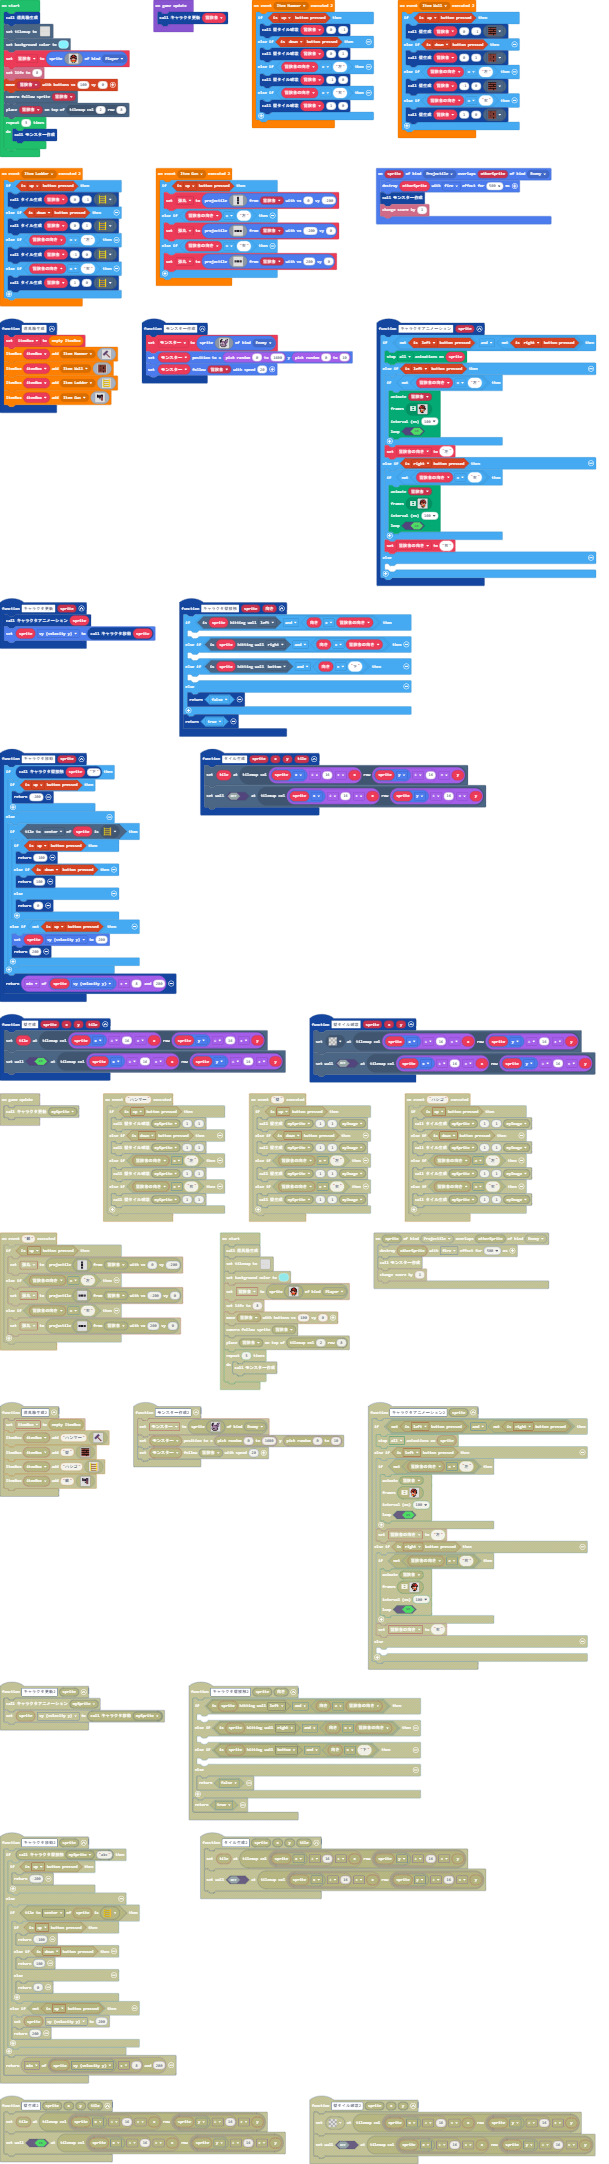
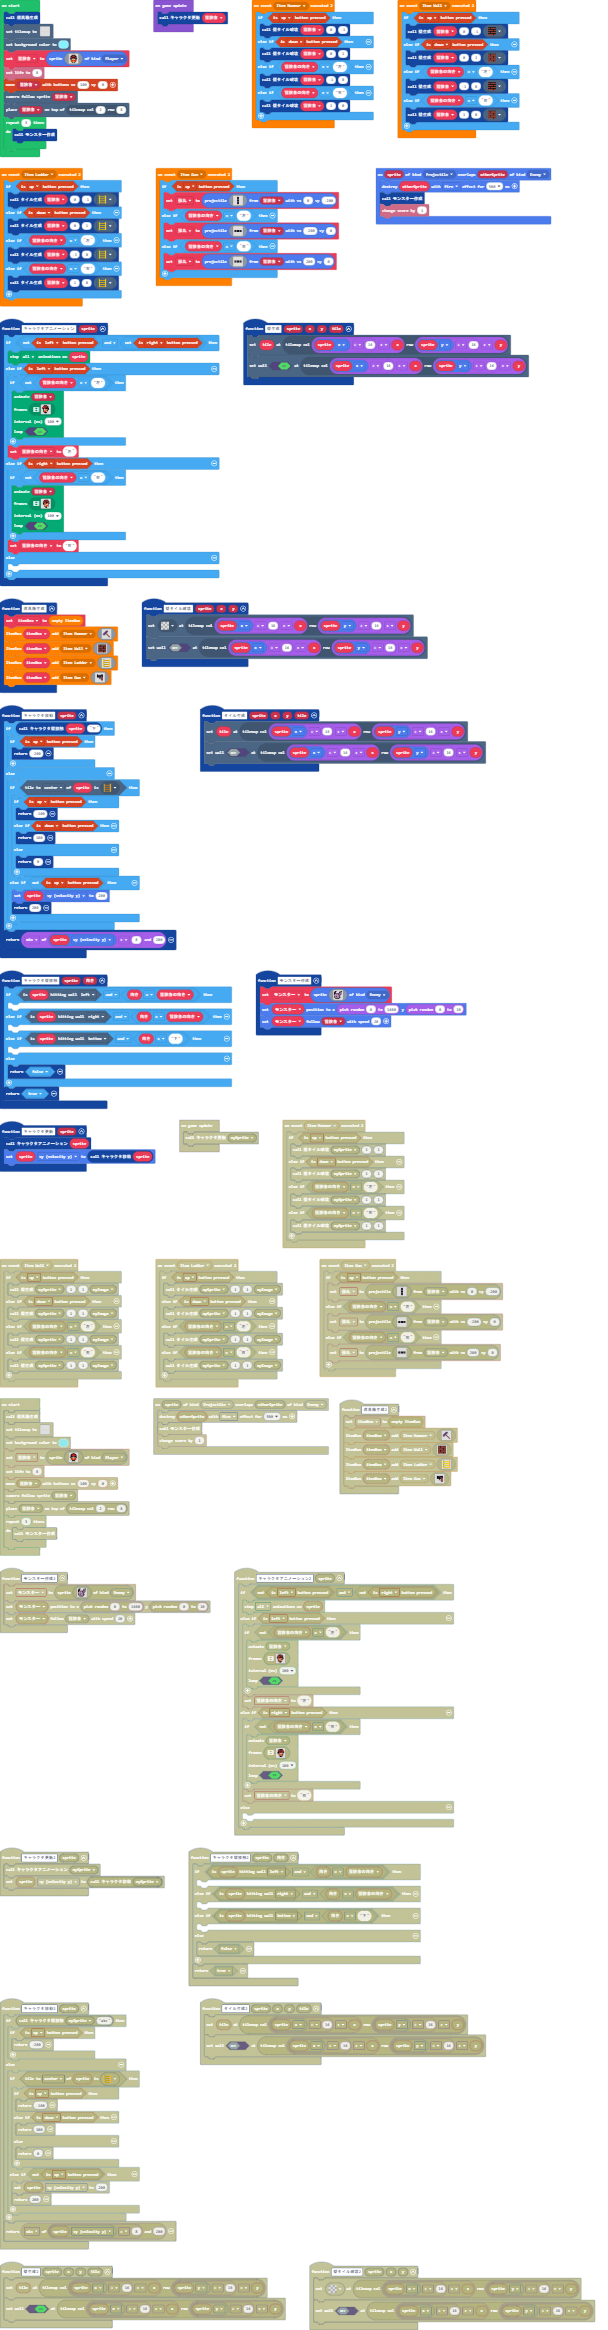
Update main.blocks, main.ts, tilemap.g.jres, tilemap.g.ts, itembox.ts

diff --git a/itembox.ts b/itembox.ts
@@ -31,13 +31,12 @@ function createItemFrame2(): Sprite {
  */
 //% blockNamespace=Items color="#FF8000"
 class Item {
-    _name: string;
+    _kind: number;
     _sprite: Sprite;
     _frame: Sprite;
-    _set_x: number;
 
-    constructor(name: string, sprite: Sprite) {
-        this._name = name;
+    constructor(kind: number, sprite: Sprite) {
+        this._kind = kind;
         this._sprite = sprite;
         this._sprite.setFlag(SpriteFlag.RelativeToCamera, true);
         this._frame = createItemFrame2();
@@ -45,7 +44,6 @@ class Item {
     }
 
     setPosition(x: number, y: number) {
-        this._set_x = x;
         this._sprite.setPosition(x, y);
         this._frame.setPosition(x-1, y);
     }
@@ -55,8 +53,6 @@ class Item {
     }
 
     debugPrint() {
-        console.log("name:" + this._name);
-        console.log("_x  :" + this._set_x);
         console.log("x   :" + this._sprite.x);
         console.log("y   :" + this._sprite.y);
     }
@@ -92,7 +88,6 @@ function createItemFocus(): Sprite {
 class ItemBox {
     _selected: number;
     _focus: Sprite;
-    // _frame: Sprite;
 
     _items: Item[];
     _listeners : Listener[];
@@ -114,9 +109,9 @@ class ItemBox {
     }
 
 
-    _findListenerByName(name: string) {
+    _findListenerByKind(itemKind: number) {
         let _listener = this._listeners.find((listener: Listener, index: number) => {
-            return listener._name.compare(name) == 0;
+            return listener._kind == itemKind;
         });
         if( _listener == undefined )
             return null;
@@ -131,17 +126,17 @@ class ItemBox {
      */
     //% block="ItemBox $this(itemBox) add $name $img=screen_image_picker "    
     add(name:string, img: Image) {
-        let sprite = sprites.create(img, SpriteKind.ItemsFrame);
-        let item = new Item(name, sprite);
-        this._items.push(item);
+        // let sprite = sprites.create(img, SpriteKind.ItemsFrame);
+        // let item = new Item(name, sprite);
+        // this._items.push(item);
 
-        for(let index=0; index<this._items.length; index++) {
-            let _item = this._items[index];
-            let pos = this._calcPos(_item.getSprite(), index);
-            _item.setPosition(pos.x, pos.y);
-        }
+        // for(let index=0; index<this._items.length; index++) {
+        //     let _item = this._items[index];
+        //     let pos = this._calcPos(_item.getSprite(), index);
+        //     _item.setPosition(pos.x, pos.y);
+        // }
 
-        this._updateFocus();
+        // this._updateFocus();
     }
 
     //% block="ItemBox $this(itemBox) add $itemKind $img"    
@@ -149,7 +144,7 @@ class ItemBox {
     //% img.shadow="screen_image_picker"
     add2(itemKind:number, img: Image) {
         let sprite = sprites.create(img, SpriteKind.ItemsFrame);
-        let item = new Item(itemKind.toString(), sprite);
+        let item = new Item(itemKind, sprite);
         this._items.push(item);
 
         for(let index=0; index<this._items.length; index++) {
@@ -168,7 +163,7 @@ class ItemBox {
         let item = this._items[this._selected];
         if( !item )
             return;
-        let listener = this._findListenerByName(item._name);
+        let listener = this._findListenerByKind(item._kind);
         if( !listener )
             return;
         listener._handler();
@@ -177,10 +172,16 @@ class ItemBox {
 
     //% block="ItemBox $this(itemBox) selected $name "    
     isSelected(name:string) : boolean {
-        let item = this._items[this._selected];
-        return item._name.compare(name) == 0;
+        return true;
     }
-    
+
+    //% block="ItemBox $this(itemBox) selected $itemKind "    
+    //% itemKind.shadow="item_kind_enum_shim"
+    isSelected2(itemKind:number) : boolean {
+        let item = this._items[this._selected];
+        return item._kind == itemKind;
+    }
+
     //% block="next $this(itemBox)"    
     next() {
         this._selected += 1;
@@ -231,7 +232,7 @@ class ItemBox {
 
 
 class Listener {
-    _name: string;
+    _kind: number;
     _handler: () => void;
 
     constructor() {
@@ -257,14 +258,6 @@ namespace Items {
         return itemBox;
     }
 
-    //% block="on event $name executed"
-    export function onEvent(name: string, handler: () => void) {
-        let listener = new Listener();
-        listener._name = name;
-        listener._handler = handler;
-        _listeners.push(listener);
-    }
-
     //% shim=ENUM_GET
     //% blockId=item_kind_enum_shim
     //% block="Item $arg"
@@ -281,9 +274,9 @@ namespace Items {
     //% blockId=on_event_with_item_kind
     //% block="on event $itemKind executed 2"
     //% itemKind.shadow="item_kind_enum_shim"
-    export function onEvent2(itemKind: number, handler: () => void) {
+    export function onEvent(itemKind: number, handler: () => void) {
         let listener = new Listener();
-        listener._name = itemKind.toString();
+        listener._kind = itemKind;
         listener._handler = handler;
         _listeners.push(listener);
     }    

diff --git a/main.ts b/main.ts
@@ -61,7 +61,7 @@ controller.right.onEvent(ControllerButtonEvent.Pressed, function () {
         itemBox.next()
     }
 })
-Items.onEvent2(ItemKind.Hammer, function () {
+Items.onEvent(ItemKind.Hammer, function () {
     if (controller.up.isPressed()) {
         壁タイル破壊(冒険者, 0, -1)
     } else if (controller.down.isPressed()) {
@@ -72,7 +72,7 @@ Items.onEvent2(ItemKind.Hammer, function () {
         壁タイル破壊(冒険者, 1, 0)
     }
 })
-Items.onEvent2(ItemKind.Gun, function () {
+Items.onEvent(ItemKind.Gun, function () {
     if (controller.up.isPressed()) {
         弾丸 = sprites.createProjectileFromSprite(assets.image`弾丸0`, 冒険者, 0, -200)
     } else if (冒険者の向き == "左") {
@@ -88,7 +88,7 @@ function 壁生成 (sprite: Sprite, x: number, y: number, tile: Image) {
 controller.B.onEvent(ControllerButtonEvent.Released, function () {
     controller.moveSprite(冒険者, 100, 0)
 })
-Items.onEvent2(ItemKind.Wall, function () {
+Items.onEvent(ItemKind.Wall, function () {
     if (controller.up.isPressed()) {
         壁生成(冒険者, 0, -1, assets.tile`壁タイル`)
     } else if (controller.down.isPressed()) {
@@ -124,7 +124,7 @@ function 壁タイル破壊 (sprite: Sprite, x: number, y: number) {
     tiles.setTileAt(tiles.getTileLocation(sprite.x / 16 + x, sprite.y / 16 + y), assets.tile`transparency16`)
     tiles.setWallAt(tiles.getTileLocation(sprite.x / 16 + x, sprite.y / 16 + y), false)
 }
-Items.onEvent2(ItemKind.Ladder, function () {
+Items.onEvent(ItemKind.Ladder, function () {
     if (controller.up.isPressed()) {
         タイル生成(冒険者, 0, -1, assets.tile`ハシゴタイル`)
     } else if (controller.down.isPressed()) {

diff --git a/tilemap.g.ts b/tilemap.g.ts
@@ -142,6 +142,25 @@ namespace myTiles {
 . . . . . . . . . . . . . . . . 
 . . . . . . . . . . . . . . . . 
 `, [myTiles.transparency16], TileScale.Sixteen);
+            case "level8":
+            case "level8":return tiles.createTilemap(hex`1000100000000000000000000000000000000000000000000000000000000000000000000000000000000000000000000000000000000000000000000000000000000000000000000000000000000000000000000000000000000000000000000000000000000000000000000000000000000000000000000000000000000000000000000000000000000000000000000000000000000000000000000000000000000000000000000000000000000000000000000000000000000000000000000000000000000000000000000000000000000000000000000000000000000000000000000000000000000000000000000000000000000000000000000000000000000000`, img`
+. . . . . . . . . . . . . . . . 
+. . . . . . . . . . . . . . . . 
+. . . . . . . . . . . . . . . . 
+. . . . . . . . . . . . . . . . 
+. . . . . . . . . . . . . . . . 
+. . . . . . . . . . . . . . . . 
+. . . . . . . . . . . . . . . . 
+. . . . . . . . . . . . . . . . 
+. . . . . . . . . . . . . . . . 
+. . . . . . . . . . . . . . . . 
+. . . . . . . . . . . . . . . . 
+. . . . . . . . . . . . . . . . 
+. . . . . . . . . . . . . . . . 
+. . . . . . . . . . . . . . . . 
+. . . . . . . . . . . . . . . . 
+. . . . . . . . . . . . . . . . 
+`, [myTiles.transparency16], TileScale.Sixteen);
         }
         return null;
     })
